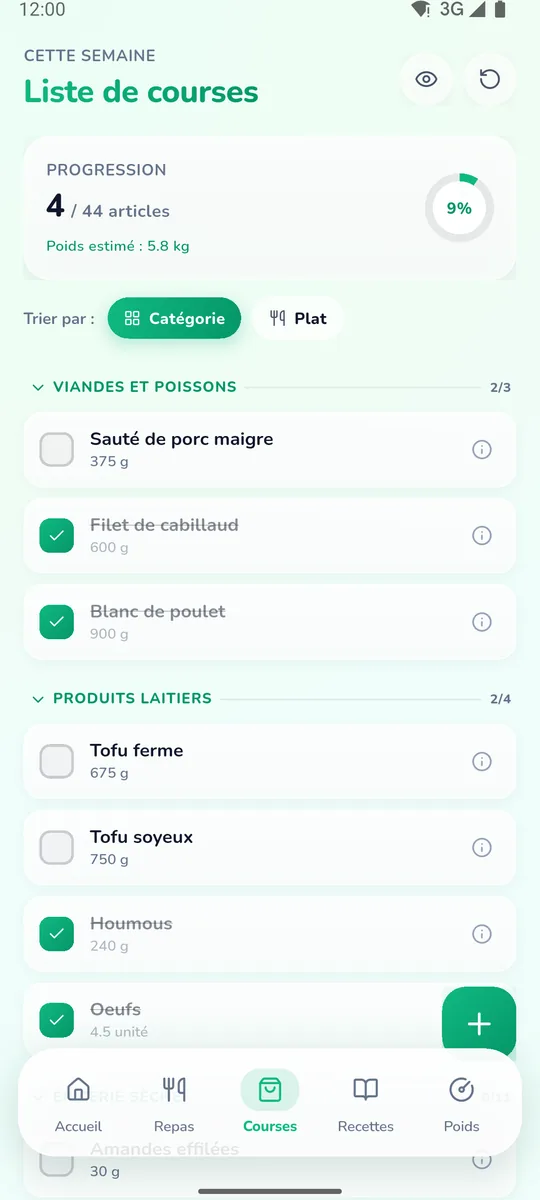
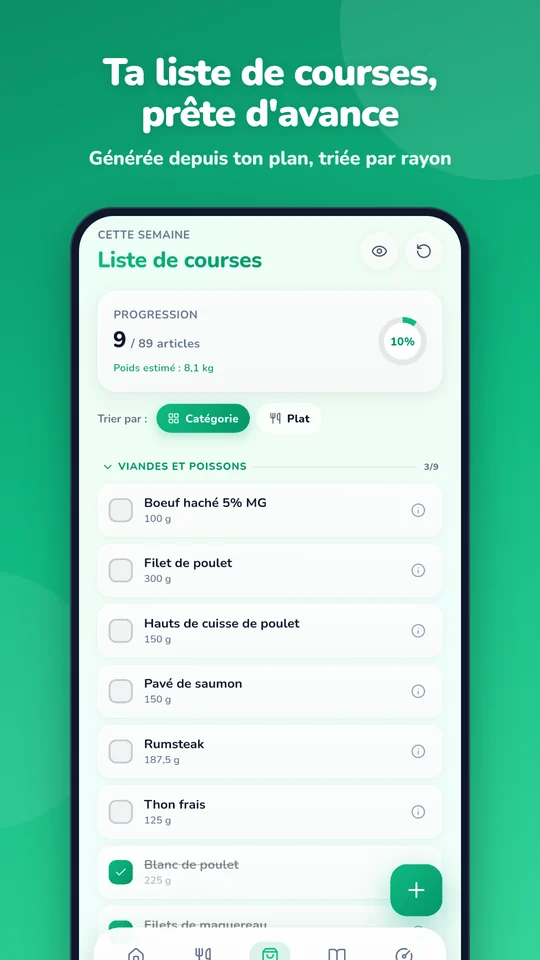
feat(easydiet): use the new Play Store visuals
- Replace raw screenshots with the eight French store visuals
- Update the recipe count to more than 200 and mention quick idea

diff --git a/src/data/projects.ts b/src/data/projects.ts
@@ -84,7 +84,7 @@ export interface Project {
 }
 
 const PHONE_SIZE = { width: 540, height: 1206 };
-const EASYDIET_SIZE = { width: 540, height: 1200 };
+const EASYDIET_SIZE = { width: 540, height: 960 };
 const WINDOW_SIZE = { width: 540, height: 648 };
 const DESKTOP_SIZE = { width: 1600, height: 1000 };
 
@@ -202,7 +202,7 @@ export const projects: Project[] = [
     tint: '#DCEBE2',
     tagline: 'Plan de repas sur mesure, liste de courses et suivi du poids. Entièrement hors ligne, sans compte, sans publicité.',
     highlights: [
-      { label: 'Recettes', value: '96' },
+      { label: 'Recettes', value: 'Plus de 200' },
       { label: 'Réseau', value: `100${NBSP}% hors ligne` },
       { label: 'Utilisateurs', value: `Plus de 1${NBSP}500` },
     ],
@@ -217,7 +217,8 @@ export const projects: Project[] = [
     solution: "EasyDiet fait tout le travail sur le téléphone. À partir d'un profil (poids, taille, objectif, activité), l'application calcule les besoins caloriques et compose le programme de repas, la liste de courses et le suivi de la progression. Aucune connexion, aucun compte, aucune donnée qui quitte l'appareil.",
     features: [
       "Plan de repas de la semaine selon le régime et les allergies, avec contrôle des macros et jusqu'à trois jours libres.",
-      '96 recettes avec instructions pas à pas, batch cooking et mode cuisson guidé avec minuteurs.',
+      'Plus de 200 recettes avec instructions pas à pas, batch cooking et mode cuisson guidé avec minuteurs.',
+      "Idée rapide : une recette adaptée au régime en un clic, selon l'envie (apéro, one pot, repas sympa ou express).",
       'Liste de courses triée par rayon, qui garde les cases cochées quand une recette change.',
       "Suivi du poids avec graphique animé et projection de la date d'objectif.",
     ],
@@ -237,24 +238,23 @@ export const projects: Project[] = [
     stage: {
       kind: 'shots',
       shots: [
-        { kind: 'image', frame: 'phone', image: dietImage('recette', 'Fiche recette avec ses macros et ses ingrédients') },
-        { kind: 'image', frame: 'phone', image: dietImage('tableau-de-bord', 'Tableau de bord : calories et macronutriments du jour'), lead: true },
-        { kind: 'image', frame: 'phone', image: dietImage('poids', "Suivi du poids et date d'objectif projetée") },
+        { kind: 'image', frame: 'tile', image: dietImage('semaine', 'Ta semaine de repas, planifiée selon tes calories') },
+        { kind: 'image', frame: 'tile', image: dietImage('accueil', "Objectif calories et repas du jour en un coup d'œil"), lead: true },
+        { kind: 'image', frame: 'tile', image: dietImage('poids', "Suivi du poids et date d'objectif estimée") },
       ],
     },
     gallery: {
       kind: 'images',
-      frame: 'phone',
+      frame: 'tile',
       images: [
-        dietImage('accueil', "Accueil : plans personnalisés, courses automatiques, suivi calorique, tout hors ligne"),
-        dietImage('allergies', 'Allergies et viandes exclues, prises en compte dans la génération du plan'),
-        dietImage('apercu', 'Aperçu de la semaine générée, avec remplacement ou déplacement de chaque repas'),
-        dietImage('tableau-de-bord', 'Tableau de bord : calories et macronutriments du jour, prochain repas'),
-        dietImage('plan', 'Plan de la semaine avec le résumé des macros et les repas cochés'),
-        dietImage('recettes', 'Bibliothèque de recettes filtrée par repas'),
-        dietImage('recette', 'Fiche recette : macros, portions, temps de préparation et ingrédients'),
-        dietImage('courses', 'Liste de courses triée par rayon, avec la progression des achats'),
-        dietImage('poids', "Suivi du poids : courbe sur trois mois et date d'objectif projetée"),
+        dietImage('accueil', 'Accueil : calories restantes, macros et repas du jour'),
+        dietImage('semaine', 'Plan de la semaine, calé sur les calories et les macros'),
+        dietImage('regime', 'Régime, allergies et viandes exclues pris en compte dans le plan'),
+        dietImage('recette', 'Fiche recette : macros, portions ajustables et ingrédients'),
+        dietImage('courses', 'Liste de courses générée depuis le plan et triée par rayon'),
+        dietImage('idee-rapide', 'Idée rapide : une recette adaptée au régime en un clic'),
+        dietImage('recettes', 'Plus de 200 recettes filtrées par repas'),
+        dietImage('poids', "Suivi du poids : courbe d'évolution et date d'objectif estimée"),
       ],
     },
   },
